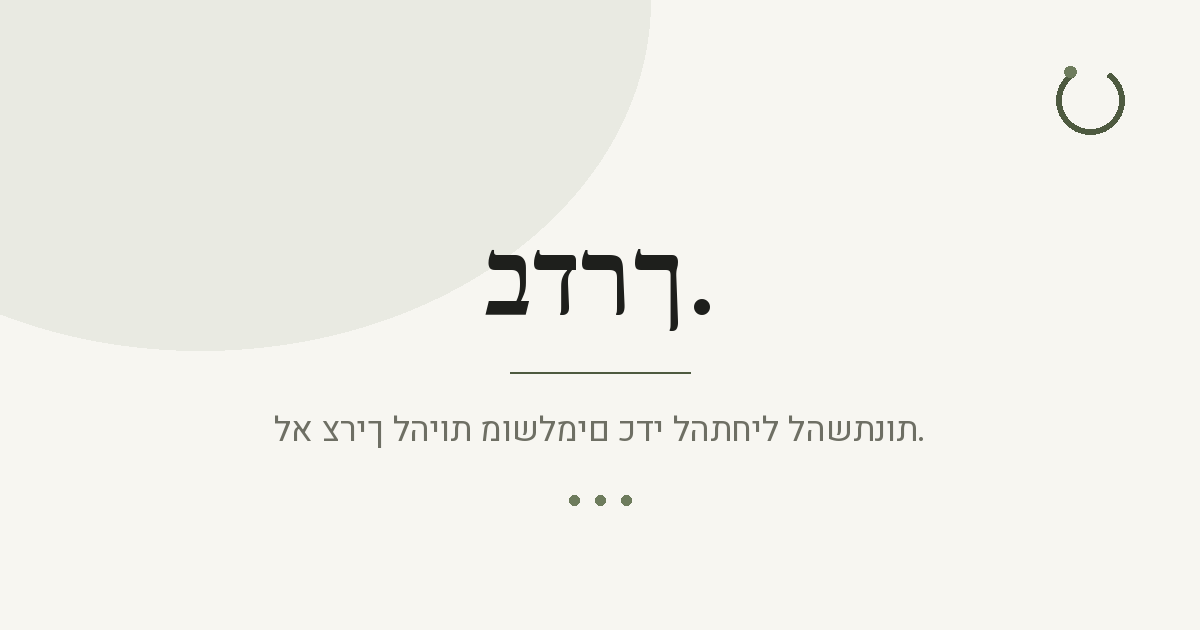
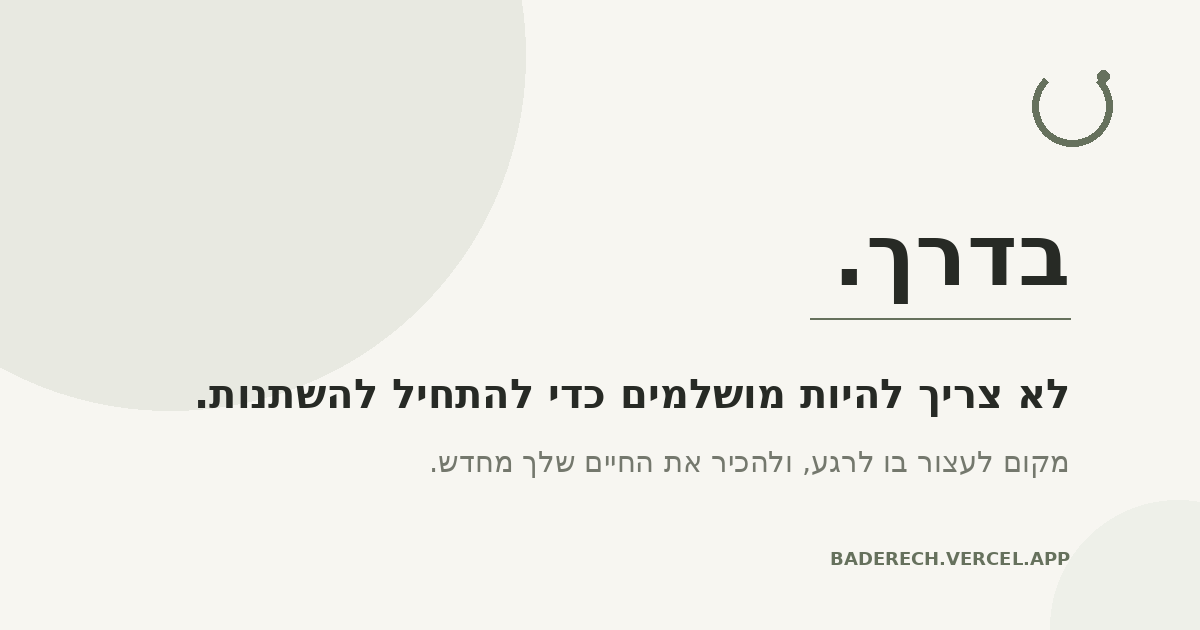
Add files via upload

diff --git a/index.html b/index.html
@@ -16,16 +16,19 @@
 
 <!-- Open Graph / social preview -->
 <meta property="og:type" content="website">
+<meta property="og:url" content="https://baderech.vercel.app/">
 <meta property="og:locale" content="he_IL">
 <meta property="og:title" content="בדרך. — לא צריך להיות מושלמים כדי להתחיל להשתנות">
 <meta property="og:description" content="לא שירות של מאמן אישי. מקום לעצור בו לרגע, ולהכיר את החיים שלך מחדש.">
-<meta property="og:image" content="/images/og-image.png">
+<meta property="og:image" content="https://baderech.vercel.app/images/og-image.png?v=2">
+<meta property="og:image:secure_url" content="https://baderech.vercel.app/images/og-image.png?v=2">
+<meta property="og:image:type" content="image/png">
 <meta property="og:image:width" content="1200">
 <meta property="og:image:height" content="630">
 <meta name="twitter:card" content="summary_large_image">
 <meta name="twitter:title" content="בדרך. — לא צריך להיות מושלמים כדי להתחיל להשתנות">
 <meta name="twitter:description" content="לא שירות של מאמן אישי. מקום לעצור בו לרגע, ולהכיר את החיים שלך מחדש.">
-<meta name="twitter:image" content="/images/og-image.png">
+<meta name="twitter:image" content="https://baderech.vercel.app/images/og-image.png?v=2">
 
 
 <link rel="preconnect" href="https://fonts.googleapis.com">
@@ -511,7 +514,7 @@
         <div class="reflect__step reflect__final" data-step="final">
           <div class="reflect__q">תודה שעצרת לרגע איתי.</div>
           <p>זה לא נשלח לשום מקום — זה היה בשבילך. אם משהו מזה מהדהד, אולי הגיע הזמן לדבר על זה בקול.</p>
-          <a href="https://calendly.com/your-link-here/intro" target="_blank" rel="noopener" class="btn">לקביעת שיחת היכרות</a>
+          <a href="https://calendly.com/baderech" target="_blank" rel="noopener" class="btn">לקביעת שיחת היכרות</a>
         </div>
       </div>
 
@@ -526,7 +529,7 @@
       <p class="reveal">לא צריך תוכנית מושלמת. צריך רק נכונות לעצור לרגע ולומר — אני רוצה להסתכל על זה.</p>
       <p class="reveal" style="font-weight:500; color:var(--ink);">אני לא מבטיח לשנות את החיים של כל אחד. אני מציע ללכת עם אנשים חלק מהדרך — מתוך אמונה שלא צריך לעבור אותה לבד.</p>
       <div class="contact__actions reveal">
-        <a href="https://calendly.com/your-link-here/intro" target="_blank" rel="noopener" class="btn">לקביעת שיחת היכרות</a>
+        <a href="https://calendly.com/baderech" target="_blank" rel="noopener" class="btn">לקביעת שיחת היכרות</a>
       </div>
       <div class="contact__links reveal">
         <a href="https://instagram.com/its.pessi" target="_blank" rel="noopener">אינסטגרם — its.pessi</a>
@@ -552,3 +555,4 @@
 <script src="js/script.js" defer></script>
 </body>
 </html>
+
